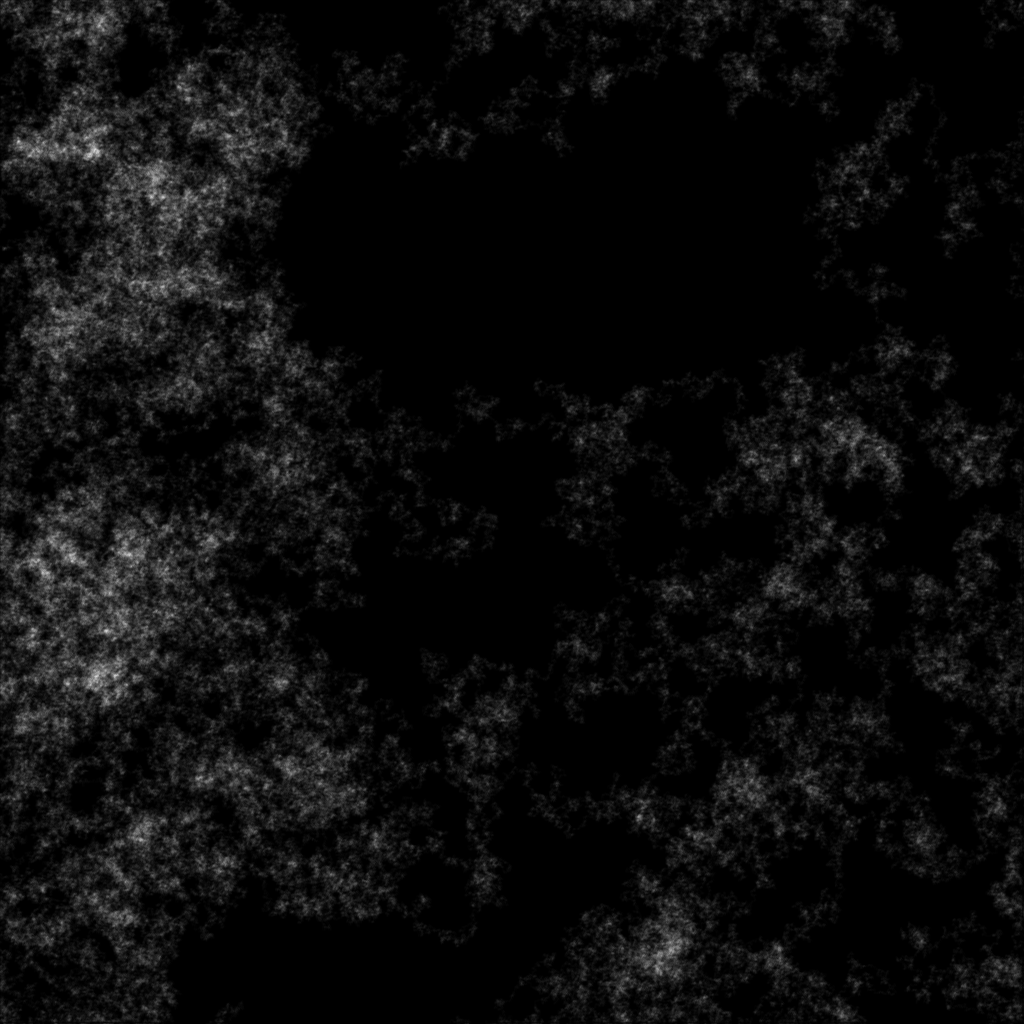
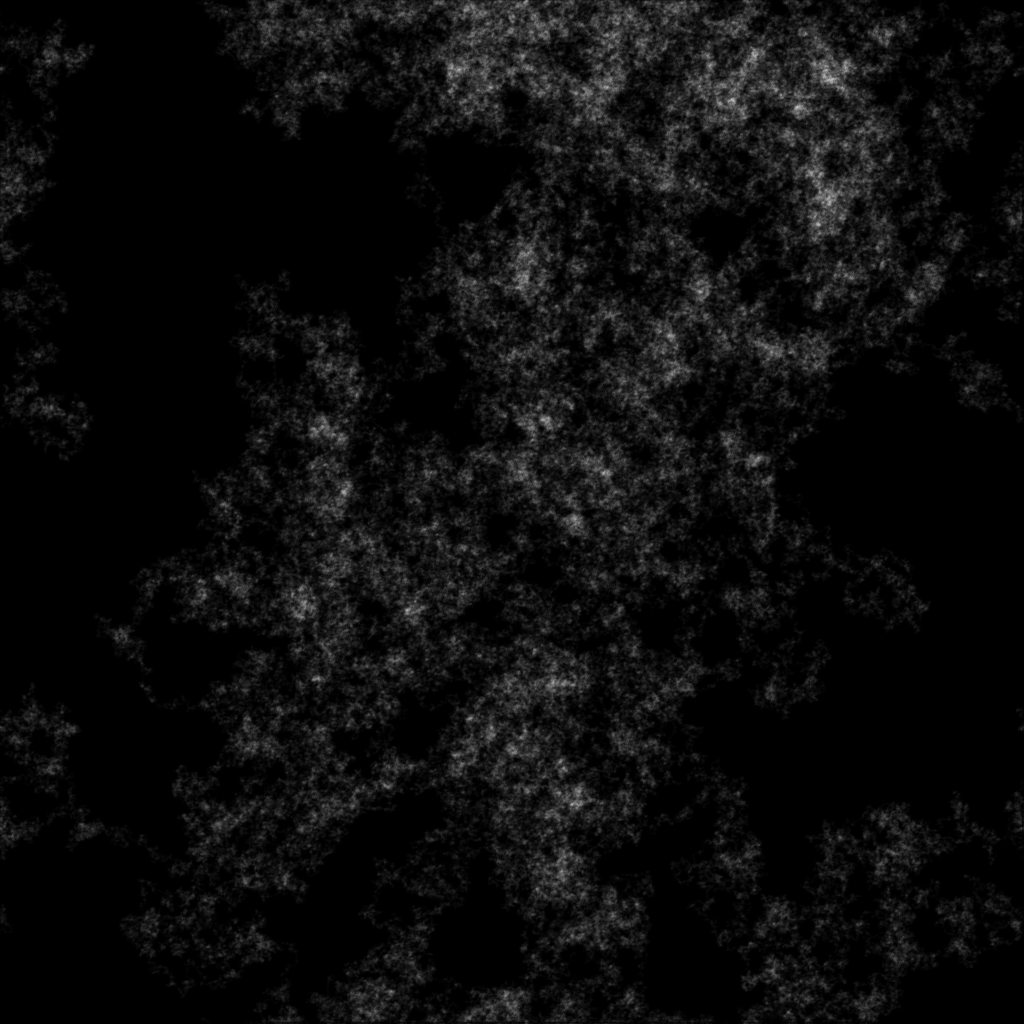
efficiency improvement

diff --git a/newcity/squaredWorld.py b/newcity/squaredWorld.py
@@ -4,26 +4,32 @@ from PIL import Image, ImageDraw
 np.set_printoptions(threshold=10000)
 size = 4000
 height = 5000
-width = 10000
+width = 5000
 
 m = np.zeros(shape=(height,width))
 
 #disp[0][size-1] = 5
 
 def build():
-    start_width = ri(1,width-1)
-    start_height = ri(1,height-1)
-    #      y               x
-    m[start_height-1][start_width-1] += 1
-    m[start_height-1][start_width  ] += 1
-    m[start_height  ][start_width-1] += 1
-    m[start_height  ][start_width  ] += 1
+    #start_width = ri(1,width-1)
+    #start_height = ri(1,height-1)
+    #       y               x
+    #m[start_height-1][start_width-1] += 1
+    #m[start_height-1][start_width  ] += 1
+    #m[start_height  ][start_width-1] += 1
+    #m[start_height  ][start_width  ] += 1
     # should be size squared (size*size)
     # ** = exponent
     total_blocks = (height*width)**2+(height*width)**2+(height*width)**2
     total_blocks = (height*width)**2
     # pos is [4,4]
-    pos = [start_height,start_width]
+    pos = []
+    pos += [[ri(1,height-1),ri(1,width-1)]]
+    pos += [[ri(1,height-1),ri(1,width-1)]]
+    pos += [[ri(1,height-1),ri(1,width-1)]]
+    pos += [[ri(1,height-1),ri(1,width-1)]]
+    pos += [[ri(1,height-1),ri(1,width-1)]]
+    
     #print(pos)
     choice_log = []
     progress = 0
@@ -84,7 +90,7 @@ def build():
 
         if (progress/complete) % 500 == 0:
             print(f'{(progress/complete)/10000}%')
-        #print(f'{round((progress/complete),10)}\t\t{progress}/{complete}')
+        #print(f'\t{progress}/{complete}')
         progress += 1
     #print(choice_log)
     print('done')

diff --git a/newcity/tes.py b/newcity/tes.py
@@ -1,0 +1,12 @@
+from random import randint as ri
+height = 5000
+width = 5000
+
+pos = []
+pos += [[ri(1,height-1),ri(1,width-1)]]
+pos += [[ri(1,height-1),ri(1,width-1)]]
+pos += [[ri(1,height-1),ri(1,width-1)]]
+pos += [[ri(1,height-1),ri(1,width-1)]]
+pos += [[ri(1,height-1),ri(1,width-1)]]
+
+print(pos)

diff --git a/newcity/winds_pressure_temp.py b/newcity/winds_pressure_temp.py
@@ -1,8 +1,8 @@
-height = 4000
-width = 4000
+height = 5000
+width = 5000
 import numpy as np
 m = np.zeros(shape=(height,width,4))
-print(m)
+#print(m)
 
 #            U R D L
 #m[i][j] == [0,0,0,0]
@@ -34,3 +34,4 @@ def winds():
                     m[i][j][3] -= 1
 
 winds()
+print(m)
